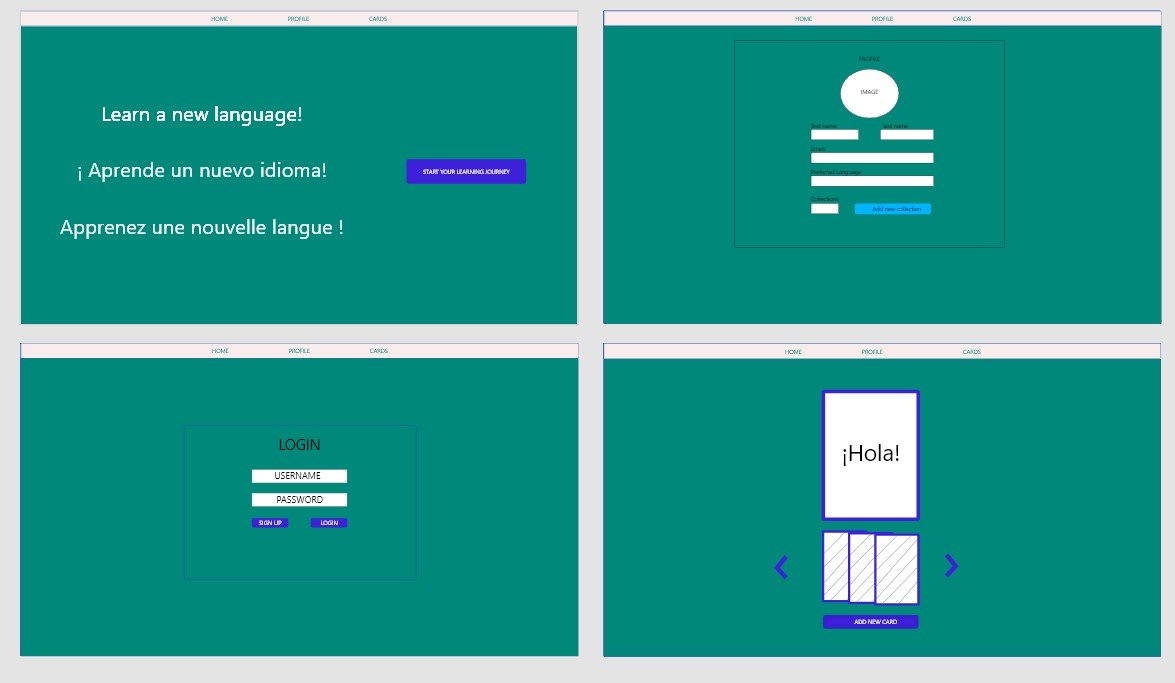
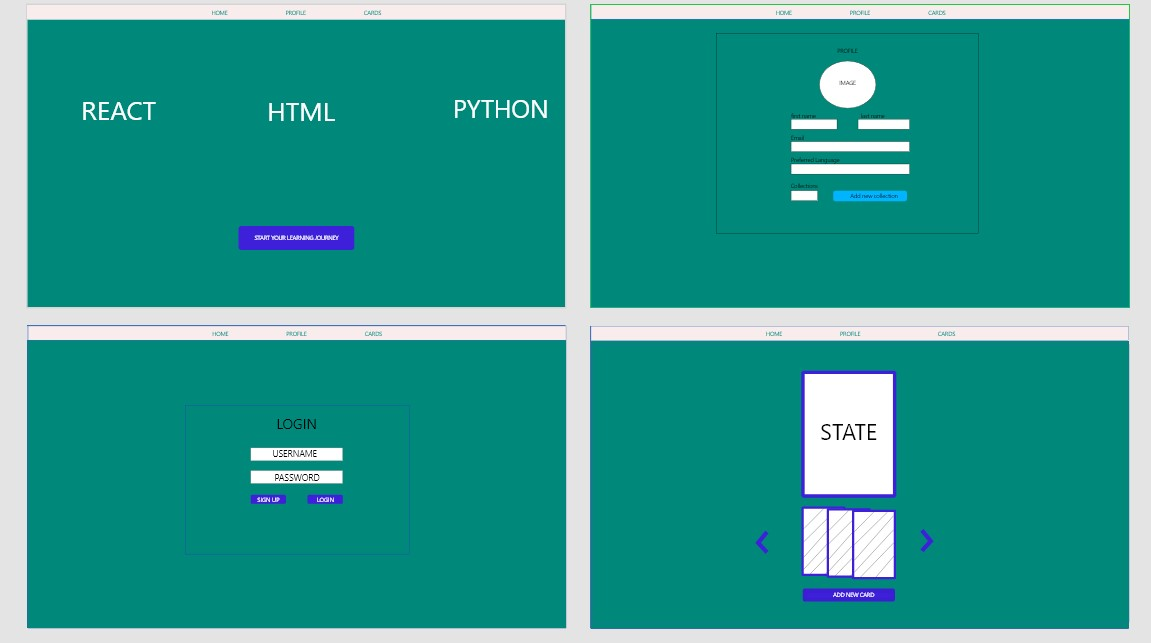
Added new navbar. Added additional components. Added router to App.

diff --git a/flashcard_library/src/Components/Navbar/NavBar.jsx b/flashcard_library/src/Components/Navbar/NavBar.jsx
@@ -1,6 +1,7 @@
 import React, { Component } from "react";
 import {Nav, Navbar, NavDropdown} from 'react-bootstrap';
 import {FaTwitter, FaFacebookSquare} from 'react-icons/fa';
+import './NavBar.css'
 
 
 
@@ -15,20 +16,13 @@ toggleCollapse = () => {
 
 render() {
   return (
-    <Navbar collapseOnSelect expand="lg" bg="dark" variant="dark">
-    <Navbar.Brand href="#home">React-Bootstrap</Navbar.Brand>
+    <Navbar className="navbar" collapseOnSelect expand="md" variant="dark">
+    <Navbar.Brand href="/home">Flashcards</Navbar.Brand>
     <Navbar.Toggle aria-controls="responsive-navbar-nav" />
     <Navbar.Collapse id="responsive-navbar-nav">
       <Nav className="mr-auto">
-        <Nav.Link href="#features">Features</Nav.Link>
-        <Nav.Link href="#pricing">Pricing</Nav.Link>
-        <NavDropdown title="Dropdown" id="collasible-nav-dropdown">
-          <NavDropdown.Item href="#action/3.1">Action</NavDropdown.Item>
-          <NavDropdown.Item href="#action/3.2">Another action</NavDropdown.Item>
-          <NavDropdown.Item href="#action/3.3">Something</NavDropdown.Item>
-          <NavDropdown.Divider />
-          <NavDropdown.Item href="#action/3.4">Separated link</NavDropdown.Item>
-        </NavDropdown>
+        <Nav.Link href="/account">Account</Nav.Link>
+        <Nav.Link href="/cards">Cards</Nav.Link>
       </Nav>
       <Nav>
         <Nav.Link><FaFacebookSquare/></Nav.Link>

diff --git a/flashcard_library/src/App.css b/flashcard_library/src/App.css
@@ -1,38 +1,22 @@
 .App {
   text-align: center;
+  background-color: #00887A;
 }
 
-.App-logo {
-  height: 40vmin;
-  pointer-events: none;
+.title{
+  margin-top: 8rem;
+  font-size: 3rem;
 }
 
-@media (prefers-reduced-motion: no-preference) {
-  .App-logo {
-    animation: App-logo-spin infinite 20s linear;
-  }
+.icons{
+  margin-top: 6rem;
+  font-size: 5rem;
 }
 
-.App-header {
-  background-color: #282c34;
-  min-height: 100vh;
-  display: flex;
-  flex-direction: column;
-  align-items: center;
-  justify-content: center;
-  font-size: calc(10px + 2vmin);
-  color: white;
-}
-
-.App-link {
-  color: #61dafb;
-}
-
-@keyframes App-logo-spin {
-  from {
-    transform: rotate(0deg);
-  }
-  to {
-    transform: rotate(360deg);
-  }
+.landing__btn{
+  margin-top: 10rem;
+  font-size: 1.5rem;
+  font-weight: bold;
+  background-color: #3670da;
+  color: black;
 }

diff --git a/flashcard_library/src/App.js b/flashcard_library/src/App.js
@@ -1,7 +1,9 @@
 import { Component } from 'react';
-import {Button} from 'react-bootstrap'
+import { BrowserRouter as Router, Route } from 'react-router-dom';
 import './App.css';
-import NavbarPage from './NavBar';
+import NavbarPage from './Components/Navbar/NavBar';
+import Account from './Components/AccountPage/Account';
+import Landing from './Components/LandingPage/Landing';
 
 class  App extends Component {
 
@@ -12,9 +14,18 @@ class  App extends Component {
 
   render(){
   return (
+    
     <div className="App">
-      <NavbarPage></NavbarPage>
-      <h1>Hello!</h1>
+      <Router>
+      <NavbarPage/>
+      <Route path='/home'>
+        <Landing/>
+      </Route>
+      <Route path='/account'>
+        <Account/>
+      </Route>
+      </Router>
+      
     </div>
   );
     }

diff --git a/flashcard_library/src/Components/LandingPage/Landing.jsx b/flashcard_library/src/Components/LandingPage/Landing.jsx
@@ -1,0 +1,28 @@
+import React from 'react';
+import {Button, Container, Row, Col} from 'react-bootstrap';
+import {SiPython, SiHtml5} from 'react-icons/si';
+import './Landing.css';
+
+function Landing() {
+
+
+    return (
+        <div className="main__content">
+        <Container>
+          <Row>
+            <Col><p className="title">Stack Study</p></Col>
+          </Row>
+          <Row>
+            <Col><SiPython className="icons"/></Col>
+            <Col><SiPython className="icons"/></Col>
+            <Col><SiPython className="icons"/></Col>
+          </Row>
+          <Row>
+            <Col><Button className="landing__btn">Time To Study!</Button></Col>
+          </Row>
+        </Container>
+      </div>
+    )
+}
+
+export default Landing

diff --git a/flashcard_library/src/index.css b/flashcard_library/src/index.css
@@ -1,4 +1,5 @@
-body {
+body, html {
+  background-color: #00887A;
   margin: 0;
   font-family: -apple-system, BlinkMacSystemFont, 'Segoe UI', 'Roboto', 'Oxygen',
     'Ubuntu', 'Cantarell', 'Fira Sans', 'Droid Sans', 'Helvetica Neue',

diff --git a/flashcard_library/src/Components/AccountPage/Account.jsx b/flashcard_library/src/Components/AccountPage/Account.jsx
@@ -1,0 +1,18 @@
+import React from 'react'
+
+function Account() {
+
+
+
+
+
+
+
+    return (
+        <div id="account">
+            <p>Hello!</p>
+        </div>
+    )
+}
+
+export default Account

diff --git a/flashcard_library/src/Components/Navbar/NavBar.css b/flashcard_library/src/Components/Navbar/NavBar.css
@@ -1,0 +1,7 @@
+.navbar{
+    background-color: #464444;
+}
+
+.navbar-toggler{
+    color: white;
+}
